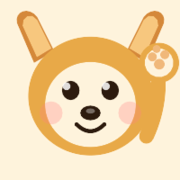
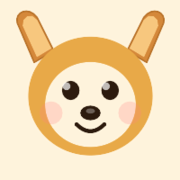
fix: 管理画面ブログ編集ボタン修正・マイメニュー地域→Instagram入替・iPhoneアイコン柴犬統一
- admin.html: テーブル操作列のz-index修正（th:last-child z-index:5, td:last-child z-index:3）
  → 一番上の記事の編集ボタンがヘッダーに隠れる問題を解消
- index.html マイメニュー: 「地域」フィールド削除、Instagram を電話番号の横に移動
  → Instagram入力欄に@プレフィックス自動表示、保存時は@を除去して保存
- favicon.svg: 柴犬AIキャラ（顔のみ・手振りなし）に統一
- apple-touch-icon.png / icon-192.png / icon-512.png: 柴犬顔アイコンで再生成
  → iPhoneホーム画面に追加すると常に柴犬キャラが表示される

diff --git a/index.html b/index.html
@@ -4379,12 +4379,9 @@ function openMypage(){
       <div class="fg"><label>紹介文</label><textarea id="mpIntro" rows="2">${currentUser.introduction||''}</textarea></div>
       <div style="display:grid;grid-template-columns:1fr 1fr;gap:0 .4rem">
         <div class="fg"><label>電話番号</label><input id="mpPhone" value="${currentUser.phone||''}"></div>
-        <div class="fg"><label>地域</label><input id="mpLoc" value="${currentUser.location||''}"></div>
+        <div class="fg"><label><i class="fab fa-instagram" style="color:#e1306c"></i> Instagram</label><input id="mpInsta" value="${currentUser.instagram?'@'+currentUser.instagram.replace(/^@/,''):''}" placeholder="@your_id"></div>
       </div>
-      <div style="display:grid;grid-template-columns:1fr 1fr;gap:0 .4rem">
-        <div class="fg"><label>HP</label><input id="mpWeb" value="${currentUser.website||''}" placeholder="https://"></div>
-        <div class="fg"><label>Instagram</label><input id="mpInsta" value="${currentUser.instagram||''}" placeholder="your_id"></div>
-      </div>
+      <div class="fg"><label>HP</label><input id="mpWeb" value="${currentUser.website||''}" placeholder="https://"></div>
       <div class="fg" style="background:linear-gradient(135deg,rgba(245,158,11,.05),rgba(251,191,36,.03));border:1px solid rgba(245,158,11,.15);border-radius:8px;padding:.3rem .45rem">
         <label style="color:#b45309;font-weight:700;display:flex;align-items:center;gap:.2rem;font-size:.68rem"><i class="fas fa-gift" style="color:#f59e0b"></i> 特典</label>
         <input id="mpBenefit" value="${currentUser.memberBenefit||''}" placeholder="例: 初回10%OFF" style="border-color:rgba(245,158,11,.15)">
@@ -4428,7 +4425,7 @@ async function saveMypage(e){
     profession:document.getElementById('mpProfession').value,
     phone:document.getElementById('mpPhone').value,website:document.getElementById('mpWeb').value,
     homepage:document.getElementById('mpWeb').value,
-    instagram:document.getElementById('mpInsta').value,googleMapUrl:document.getElementById('mpGmap').value,location:document.getElementById('mpLoc').value,
+    instagram:document.getElementById('mpInsta').value.replace(/^@/,''),googleMapUrl:document.getElementById('mpGmap').value,
     memberBenefit:document.getElementById('mpBenefit').value.trim(),
     isPublic:document.getElementById('mpPublic').value==='true',avatar:currentUser.avatar};
   try{

diff --git a/admin.html b/admin.html
@@ -181,9 +181,10 @@ td{padding:.5rem .7rem;border-bottom:1px solid rgba(16,185,129,.03);vertical-ali
 tr{transition:var(--transition)}
 tr:hover td{background:rgba(16,185,129,.015)}
 th:first-child,td:first-child{position:sticky;left:0;z-index:2;background:#fff;min-width:60px}
-th:first-child{background:rgba(240,253,244,1);z-index:3}
-td:last-child,th:last-child{position:sticky;right:0;z-index:4;background:#fff}
-th:last-child{background:rgba(240,253,244,1)}
+th:first-child{background:rgba(240,253,244,1);z-index:5}
+td:last-child,th:last-child{position:sticky;right:0;background:#fff}
+td:last-child{z-index:3}
+th:last-child{background:rgba(240,253,244,1);z-index:5}
 tr:hover td:first-child,tr:hover td:last-child{background:rgba(240,253,244,.95)}
 td:first-child::after,th:first-child::after{content:'';position:absolute;top:0;right:-6px;bottom:0;width:6px;
   box-shadow:inset 6px 0 6px -6px rgba(0,0,0,.08);pointer-events:none}
